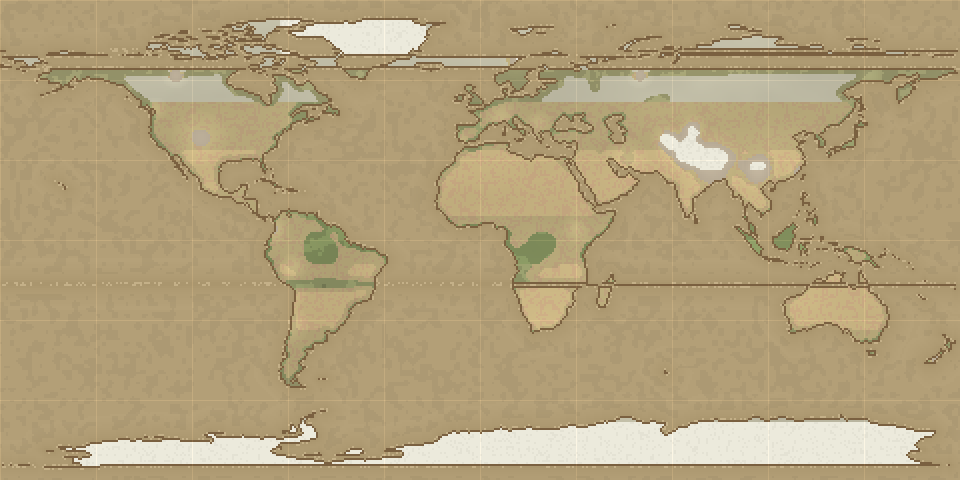
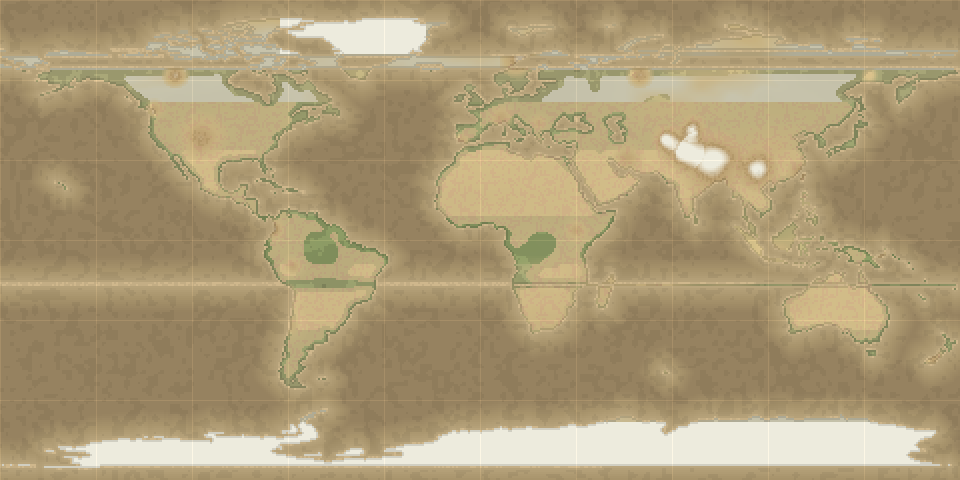
美术地图 v3：地形分层显示（参考 Natural Earth hypsometric）
- 陆地改海拔分层设色：气候底色（biome）→ 丘陵黄绿 → 山地棕 → 雪线白连续混合，
  高山/高原/平原自然过渡（替代 biome 平涂+7% 明度微调的平板感）
- 海洋 bathymetry 四层：浅滩青/浅海/深海/深渊 + 波纹与浅滩亮斑
- 海岸高光重构：去掉整格提亮（小岛 232 亮度大亮块问题），
  改为临海整格 12% 暗化细线；实测 49 个小岛平均亮度 125（原 232），
  仅 4 个雪线小岛保留亮色
- 点位/占比自检保持：18 点位合理、陆地 29.1%、雪线 6.1%

diff --git a/public/art-gallery.html b/public/art-gallery.html
@@ -30,11 +30,11 @@
   <h2>大世界地图（真实 Natural Earth 数据像素化 · public domain）</h2>
   <div class="cards">
     <div class="card">
-      <div class="label">A. 海图风（v2 自然地形）<span class="no">编号 A</span></div>
+      <div class="label">A. 海图风（v3 地形分层渲染）<span class="no">编号 A</span></div>
       <img src="/art-preview/map-a-ocean.png" alt="海图风">
-      <div class="note">v2：fBm 噪声地形 + 真实山系（喜马拉雅/安第斯/落基山/天山/阿尔卑斯）岩雪；
-      沙漠（撒哈拉/阿拉伯/戈壁/澳洲内陆）与雨林（亚马逊/刚果/印尼）按真实地理点位成型；
-      海岸距离场做海洋深度渐变；2×2 像素簇 + 材质噪点抖动。</div>
+      <div class="note">v3：参照 Natural Earth 跨混合海拔分层设色——陆地绿→黄→棕→白连续渐变（山体/雪线自然过渡），
+      海洋 bathymetry 四层深度渐变（浅滩/浅海/深海/深渊）；海岸高光改 1px 暗化细线，
+      小岛不再大面积提亮。真实山系/沙漠/雨林点位不变。</div>
     </div>
     <div class="card">
       <div class="label">B. 古籍风<span class="no">编号 B</span></div>
